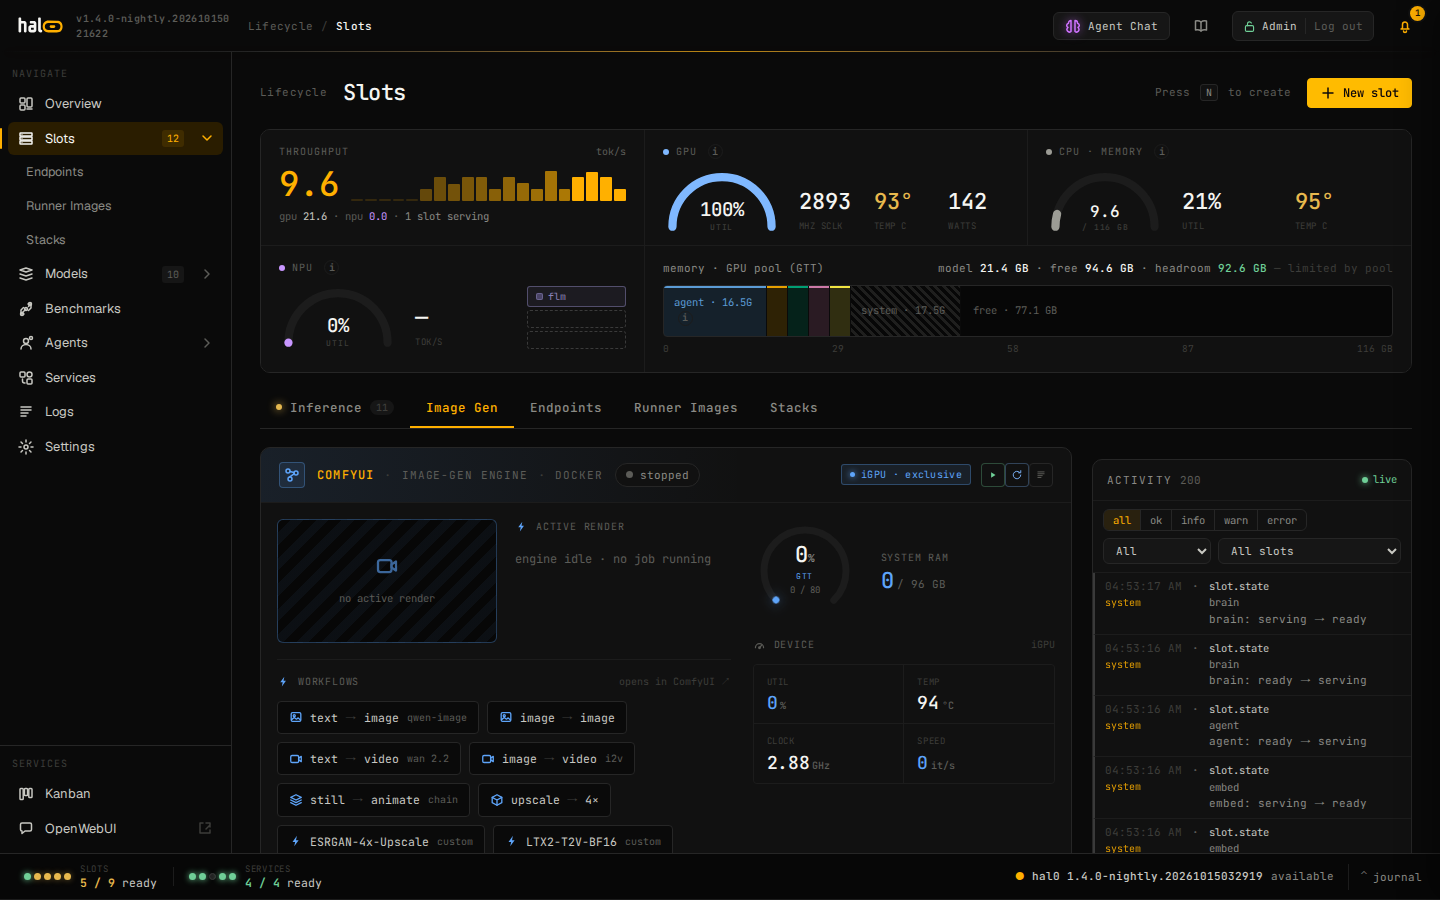
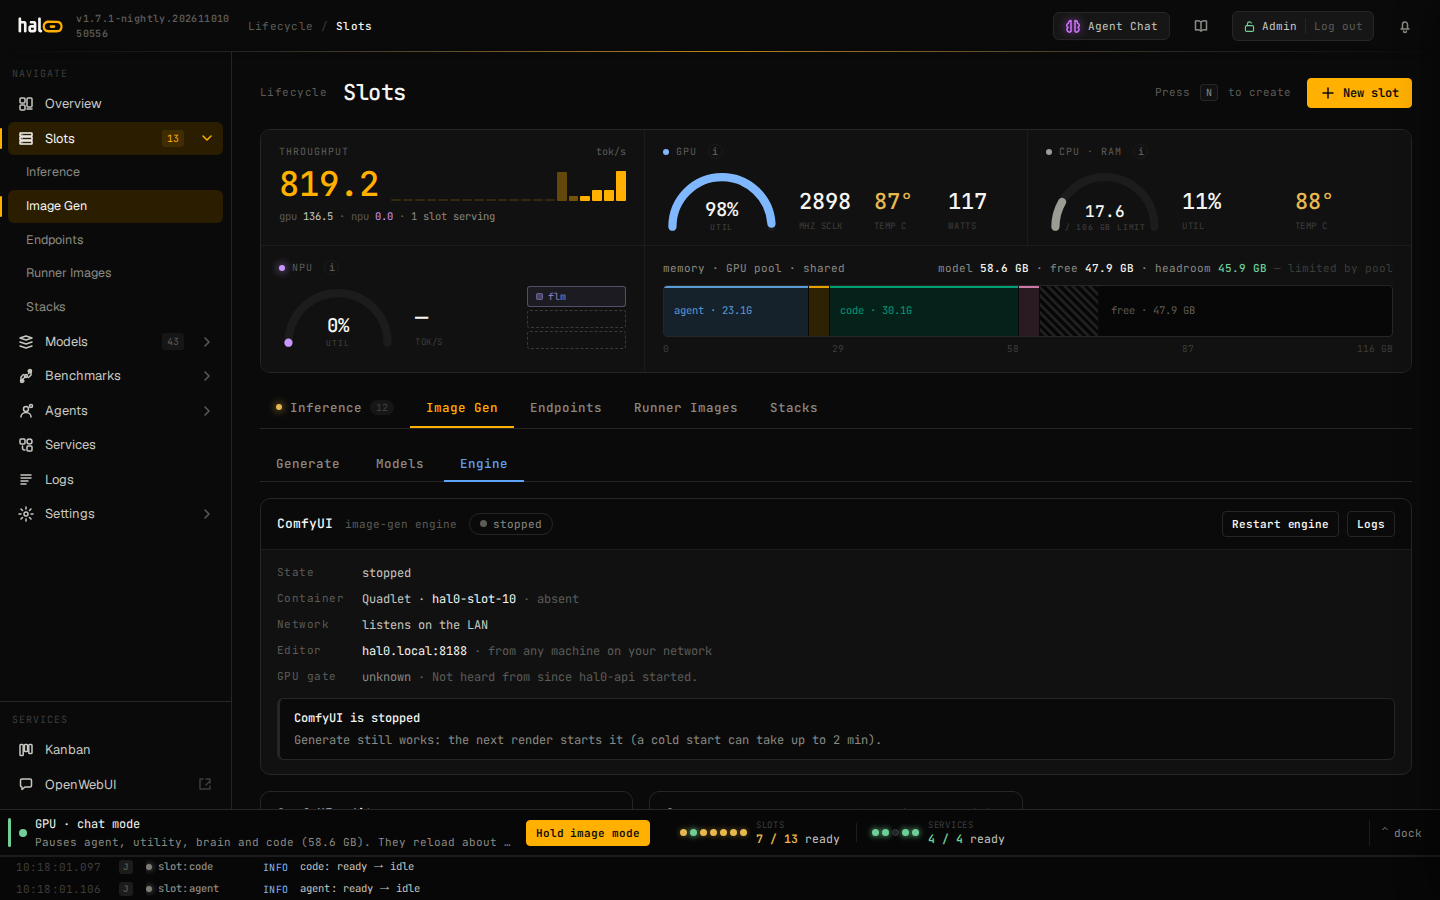
feat(landing): fresh console screenshots from 1.7.1 nightly and a rebuilt console grid (#139)
* fix(shots): accept the stable Overview's memory segment beside the nightly one

A tagged 1.7.x box still renders the earlier Overview, whose memory bar
is `.rd-mem-seg` with a `.rd-mem-seg-system` segment; the `.ov-*` band
is on nightly only. The overview shots now wait for either, so a capture
on stable no longer skips dashboard-overview.

* feat(shots): frame the drawers over the slots page, flip a card, scroll the graph

The slot and model drawers are now captured as the drawer over the slots
page at a 1440x1180 viewport instead of a drawer-only crop, which is the
framing the landing page wants (`slot-drawer` becomes `slot-edit-drawer`).
A new `agent-card-console` shot flips the Hermes card to its console beside
the pi card, waiting long enough for the status strip to repaint. The
memory graph shot scrolls the workspace to the top of the frame so the web
view, not the reflect box, is the subject.

* chore(screenshots): recapture the console from 1.7.1 nightly, prune unreferenced files

Every shipped capture now comes from hal0 1.7.1-nightly.20261101050556 on
CT105 (the capture script in the Playwright container), plus four operator
captures taken by hand on the same box: the slot drawer, the model drawer,
the Generate pane with a finished render, and the MCP tab with its bridge
clients. Twenty stems nothing on the site or in the product README still
referenced are deleted. services-page keeps its previous capture because
[…]

diff --git a/src/data/landing.ts b/src/data/landing.ts
@@ -145,6 +145,8 @@ export type ConsoleShot = {
   todo?: true;
   /** The capture is not 1440 by 900: fit it inside the frame rather than cropping it. */
   contain?: true;
+  /** The capture is a strip (the dock): the frame takes the image's own shape instead of 1440 by 900. */
+  natural?: true;
 };
 
 export const CONSOLE_SHOTS: ConsoleShot[] = [
@@ -171,20 +173,25 @@ export const CONSOLE_SHOTS: ConsoleShot[] = [
     caption: 'Slots. Each card carries a model picker, a profile picker, context and live memory.',
   },
   {
-    file: 'slot-drawer',
-    alt: 'Slot drawer showing the resolved command',
-    caption: 'Slot drawer. The resolved command, every flag labelled by owner.',
+    file: 'slot-edit-drawer',
+    alt: 'Slot drawer open over the slots page: model, profile and the tune block for the agent slot',
+    caption: 'Slot drawer. Model, profile and the tune: context, thinking, effort, budget, vision and speculation, each marked profile or override. Per-slot tune is on nightly today.',
+  },
+  {
+    file: 'model-edit-drawer',
+    alt: 'Model drawer open over the slots page: file facts, runner compatibility and source paths for a GGUF',
+    caption: 'Model drawer. The file and nothing else: quant, size, architecture, drafter, chat template, native context, where it runs.',
+  },
+  {
+    file: 'dashboard-overview',
+    alt: 'hal0 overview page with the memory pool, the slots serving now, agents and delegated runs',
+    caption: 'Overview (preview). What each slot is serving, the memory pool, agents and delegated runs on one page. Nightly channel today.',
+  },
+  {
+    file: 'image-gen-generate',
+    alt: 'Image generation pane on the hal0 console with a prompt, size presets, a fit check and a finished render',
+    caption: 'Image gen. Prompt, size, steps and a fit check before the render; results land beside it.',
     contain: true,
-  },
-  {
-    file: 'stacks-tab',
-    alt: 'Stacks tab listing saved lineups',
-    caption: 'Stacks. Save a lineup, apply it with a plan that says what unloads.',
-  },
-  {
-    file: 'image-gen-comfyui',
-    alt: 'Image generation pane on the hal0 console',
-    caption: 'Image gen. Generate from the console; the ComfyUI editor stays on the LAN.',
   },
   {
     file: 'image-gen-models',
@@ -194,9 +201,24 @@ export const CONSOLE_SHOTS: ConsoleShot[] = [
   },
   {
     file: 'agents-overview',
-    alt: 'Agents page with agent cards',
-    caption: 'Agents. Hermes and pi with their profiles, tool policy and approvals.',
-    todo: true,
+    alt: 'Agents page with cards for Hermes, pi and a runtime on the roadmap',
+    caption: 'Agents. Every agent in the runtime as a card: version, model, persona, approvals and health.',
+  },
+  {
+    file: 'agent-card-console',
+    alt: 'The Hermes agent card flipped to its console with restart, logs, persona and approval controls',
+    caption: 'Card console. Flip a card for restart, logs, tool activity, persona and command approvals.',
+  },
+  {
+    file: 'mcp-tab',
+    alt: 'MCP page listing the bundled hal0 servers with their tool counts and the bridge clients that call them',
+    caption: 'MCP. The bundled servers with their tool counts, and the bridge clients that call them. The bridge is on nightly today.',
+    contain: true,
+  },
+  {
+    file: 'memory-graph',
+    alt: 'Memory bank in its web view: facts as a force-directed graph linked by meaning, time and shared entity, with a tag map beside it',
+    caption: 'Memory graph. A bank as a web: related meaning, near in time, shared entity, with the tag map beside it.',
   },
   {
     file: 'approvals-inbox',
@@ -205,26 +227,10 @@ export const CONSOLE_SHOTS: ConsoleShot[] = [
     todo: true,
   },
   {
-    file: 'mcp-tab',
-    alt: 'MCP page listing servers and recent callers',
-    caption: 'MCP. hal0\'s own servers, installed servers, and who has been calling.',
-  },
-  {
-    file: 'settings-security',
-    alt: 'Security settings page',
-    caption: 'Security. Key auth, admin gate, command approvals, origin allowlist.',
-  },
-  {
-    file: 'overview-now',
-    alt: 'Overview page showing what each slot is serving',
-    caption: 'Overview (preview). What each slot is serving, on the nightly channel.',
-    todo: true,
-  },
-  {
     file: 'dock-gpu',
     alt: 'The dock with its GPU tab open',
     caption: 'Dock. GPU state, slot and service health, downloads and a merged event feed.',
-    todo: true,
+    natural: true,
   },
 ];
 
